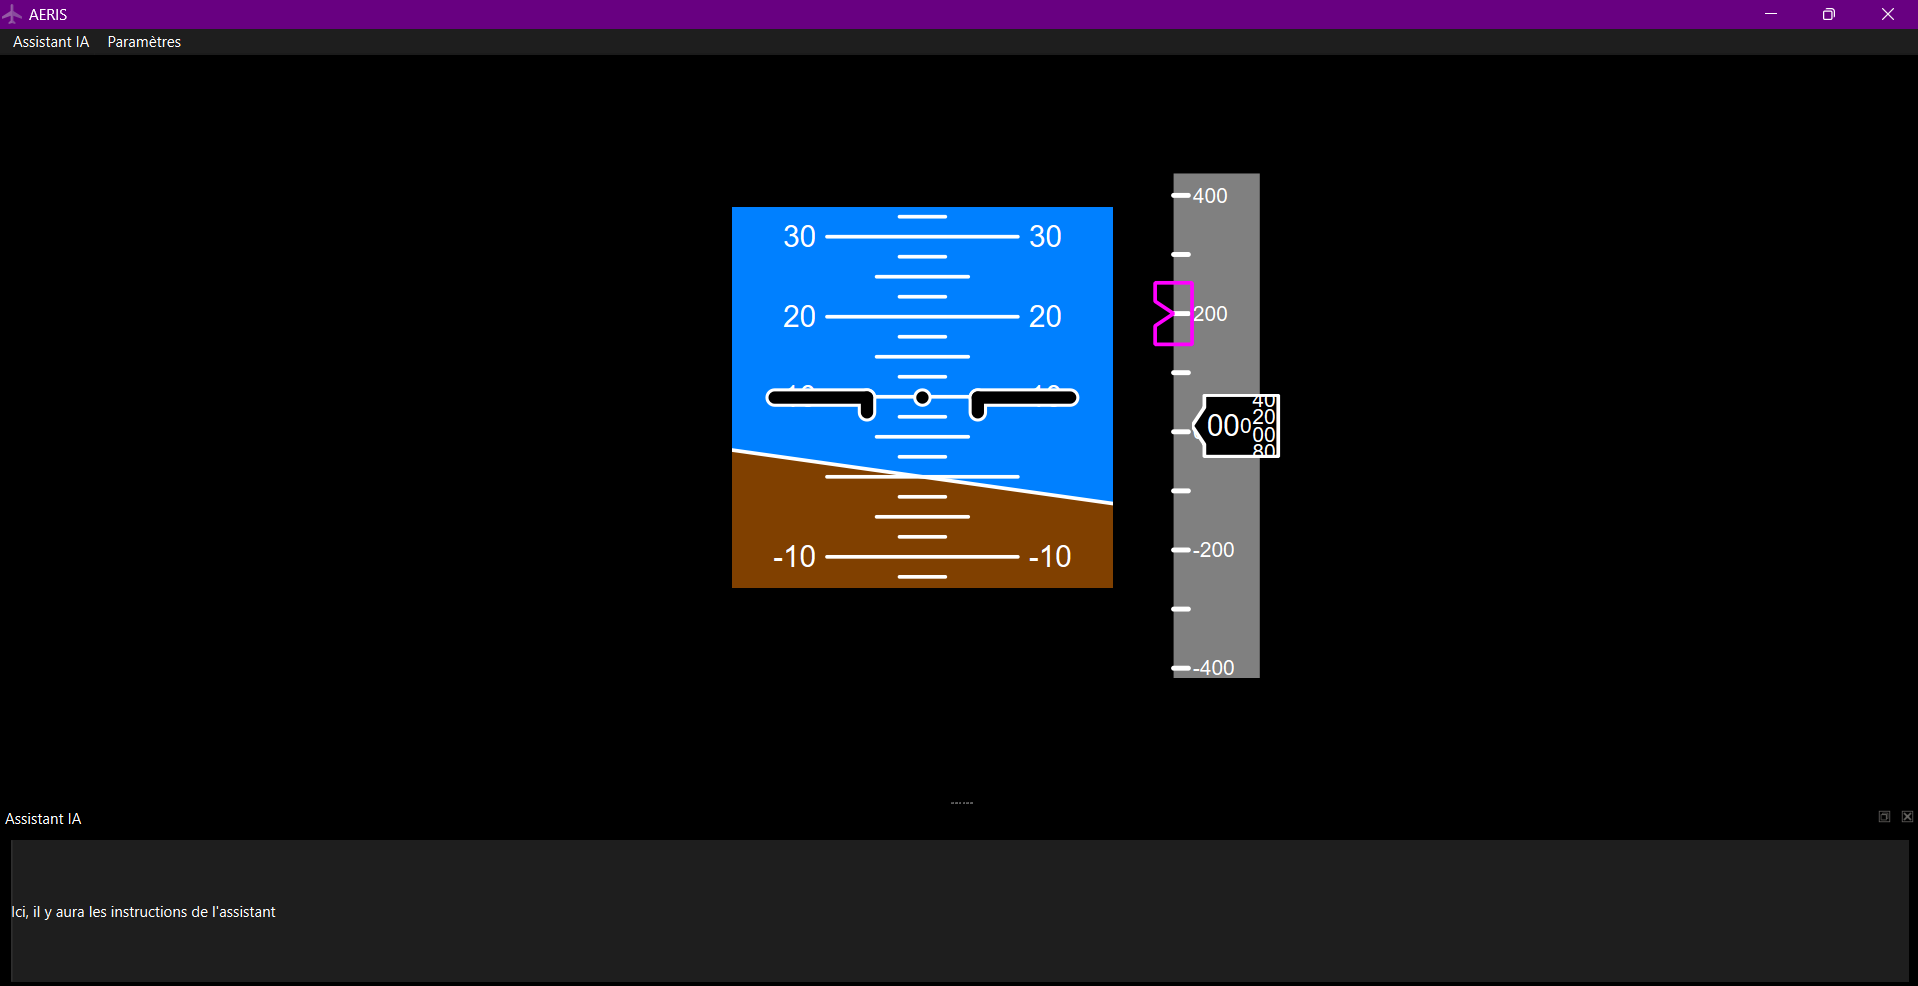
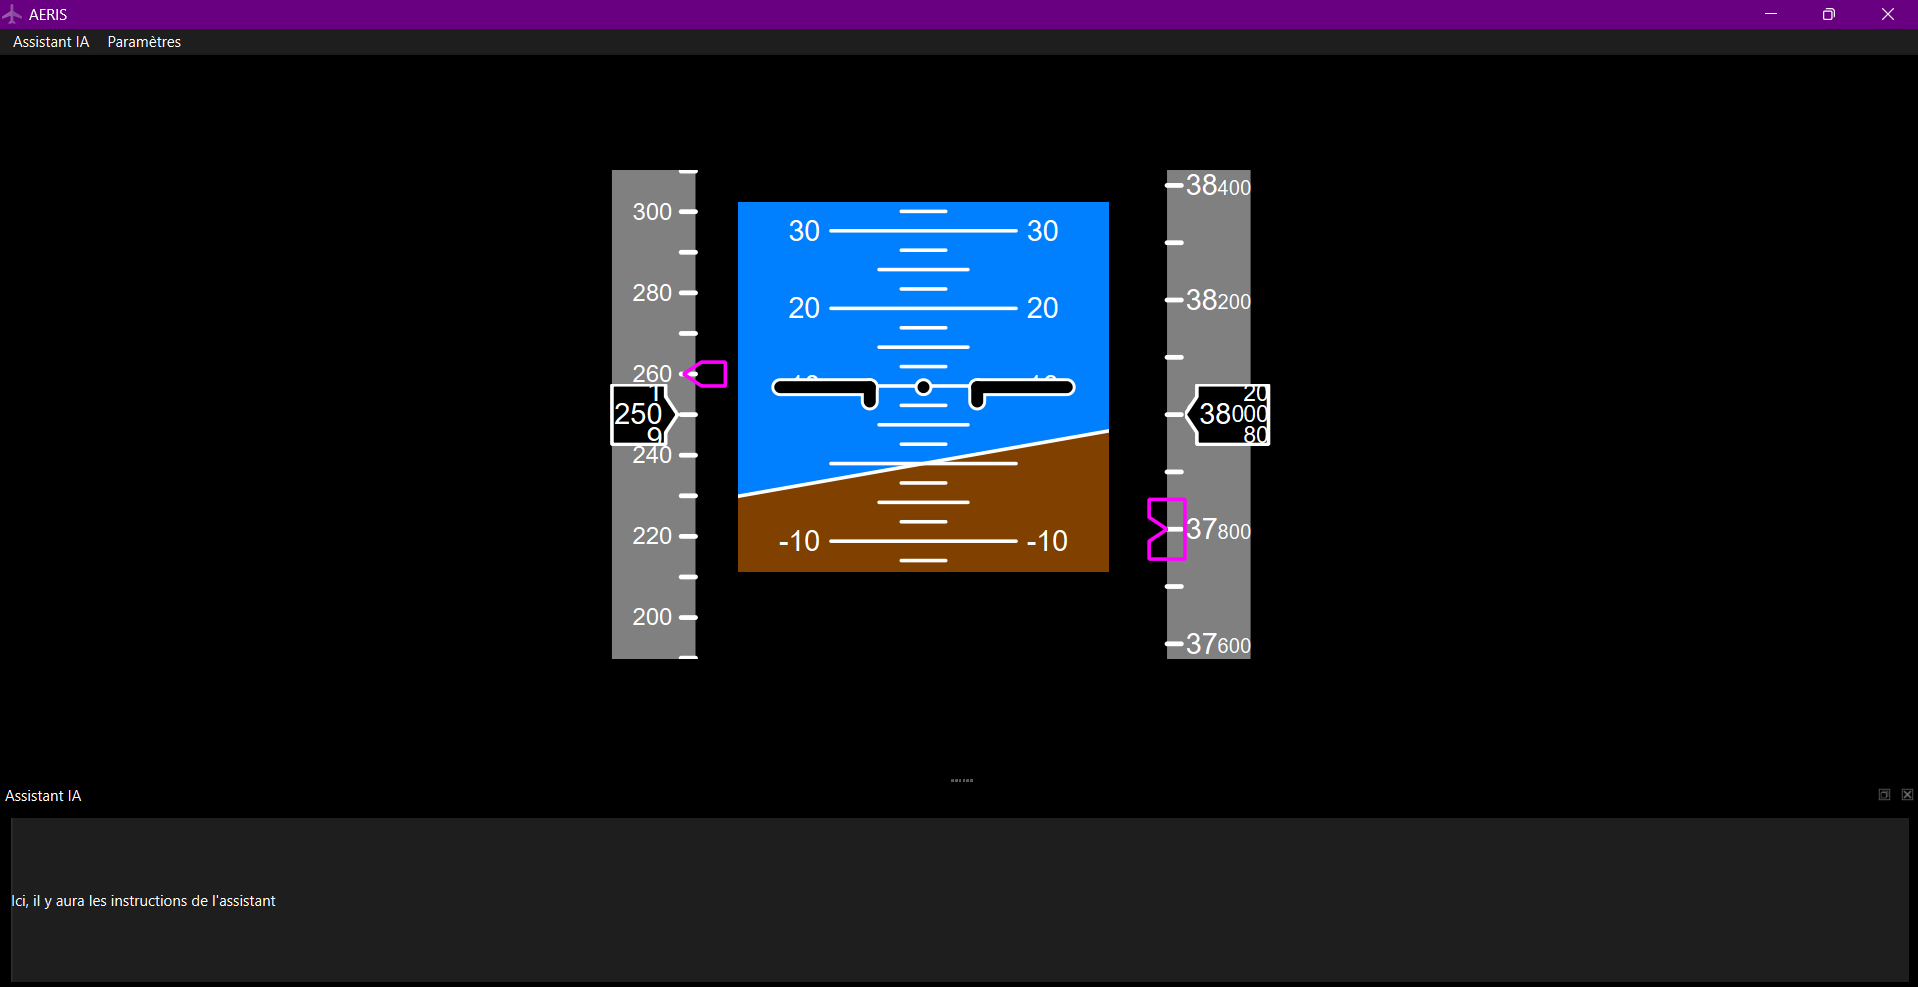
Ajout de l'anémomètre et correction de l'affichage de l'altimètre

Changed region(s): [[0.3076, 0.1521, 0.6767, 0.6998], [0.0, 0.7911, 1.0, 0.8519], [0.0, 0.9128, 0.1538, 0.9432]]

diff --git a/software/ui/anemometer/indicator.py b/software/ui/anemometer/indicator.py
@@ -1,0 +1,83 @@
+from PyQt6.QtWidgets import QGraphicsItemGroup, QGraphicsLineItem, QGraphicsTextItem, QGraphicsRectItem, QGraphicsItem, QGraphicsPolygonItem
+from PyQt6.QtGui import QColor, QPen, QFont, QBrush, QPainterPath, QPolygonF
+from PyQt6.QtCore import Qt, QRectF, QPointF
+import math
+
+class SpeedIndicator(QGraphicsItemGroup):
+    def __init__(self, parent=None, width=60, height=50):
+        super().__init__(parent)
+        self.width = width
+        self.height = height
+
+        self.knotsPerGraduation = 1
+        self.pixelsPerGraduation = 20
+        self.pxPerKnot = self.pixelsPerGraduation / self.knotsPerGraduation
+
+        self.setFlag(QGraphicsItem.GraphicsItemFlag.ItemClipsChildrenToShape, True)
+
+        triangle = QGraphicsPolygonItem()
+        self.addToGroup(triangle)
+
+        polygon = QPolygonF([
+            QPointF(10, -25),
+            QPointF(10, -15),
+            QPointF(20, 0),
+            QPointF(10, 15),
+            QPointF(10, 25),
+            QPointF(-35, 25),
+            QPointF(-35, -25),
+        ])
+
+        triangle.setPolygon(polygon)
+        triangle.setBrush(QBrush(Qt.GlobalColor.black))
+        triangle.setPen(QPen(Qt.GlobalColor.white, 3))
+
+        self.font = QFont("Arial", 18)
+
+        self.digits = []
+        for i in range(-1, 4):
+            smallText = QGraphicsTextItem("", self)
+            smallText.setDefaultTextColor(Qt.GlobalColor.white)
+            smallText.setFont(self.font)
+            variableText = QGraphicsTextItem("", self)
+            variableText.setDefaultTextColor(Qt.GlobalColor.white)
+            variableText.setFont(self.font)
+            self.digits.append({
+                "index": i,
+                "smallText": smallText,
+                "variableText": variableText
+            })
+
+    def updatePositions(self, speed):
+        step = self.knotsPerGraduation * 2
+        baseSpeed = (speed // step) * step
+
+        mainDigit = self.digits[0]
+        smallText = mainDigit["smallText"]
+
+        tensDigit = speed // 10
+        if speed<0:
+            smallText.setPlainText(f"{tensDigit:03d}")
+            smallText.setPos(-45, -smallText.boundingRect().height() / 2)
+        else:
+            smallText.setPlainText(f"{tensDigit:02d}")
+            smallText.setPos(-37, -smallText.boundingRect().height() / 2)
+        smallText.setVisible(True)
+    
+        for numbers in self.digits:
+            speedValue = baseSpeed + numbers["index"] * self.knotsPerGraduation
+            y_local = (speed - speedValue) * self.pxPerKnot
+
+            variableText = numbers["variableText"]
+            unitsDigit = (speedValue % 10)
+            variableText.setPlainText(str(unitsDigit))
+            variableText.setPos(-10, y_local - variableText.boundingRect().height() / 2)
+            variableText.setVisible(True)
+
+    def boundingRect(self):
+        return QRectF(-40, -26, 80, 52)
+
+    def shape(self):
+        path = QPainterPath()
+        path.addRect(self.boundingRect())
+        return path

diff --git a/software/ui/anemometer/graduations.py b/software/ui/anemometer/graduations.py
@@ -1,0 +1,60 @@
+from PyQt6.QtWidgets import QGraphicsItemGroup, QGraphicsLineItem, QGraphicsTextItem
+from PyQt6.QtGui import QColor, QPen, QFont
+from PyQt6.QtCore import Qt
+import math
+
+
+class SpeedGraduations(QGraphicsItemGroup):
+    def __init__(self, parent=None, width=600):
+        super().__init__(parent)
+
+        self.knotsPerGraduation = 10
+        self.pixelsPerGraduation = 34
+        self.pxPerKnot = self.pixelsPerGraduation / self.knotsPerGraduation
+
+        self.width = width
+        self.graduationsData = []
+
+        pen = QPen(QColor("#FFFFFF"), 4)
+        pen.setCapStyle(Qt.PenCapStyle.RoundCap)
+
+        font = QFont("Arial", 15)
+
+        for i in range(-5, 8):
+            line = QGraphicsLineItem(width / 2, 0, width / 2 - 12, 0, self)
+            line.setPen(pen)
+
+            text = None
+
+            if i % 2 == 0:
+                text = QGraphicsTextItem("", self)
+                text.setDefaultTextColor(Qt.GlobalColor.white)
+                text.setFont(font)
+
+            self.graduationsData.append({
+                "index": i,
+                "line": line,
+                "text": text
+            })
+
+    def updatePositions(self, speed):
+        step = self.knotsPerGraduation * 2
+
+        baseSpeed = (speed // step) * step
+
+        for grad in self.graduationsData:
+            speedValue = baseSpeed + grad["index"] * self.knotsPerGraduation
+
+            y_local = (speed - speedValue) * self.pxPerKnot
+
+            grad["line"].setPos(0, y_local)
+
+            text = grad["text"]
+
+            if text is not None:
+                text.setPlainText(str(speedValue))
+                text.setPos(
+                    self.width / 3 - 45,
+                    y_local - text.boundingRect().height() / 2
+                )
+                text.setVisible(True)

diff --git a/software/ui/anemometer/instrument.py b/software/ui/anemometer/instrument.py
@@ -2,11 +2,11 @@ from PyQt6.QtWidgets import QGraphicsItemGroup, QGraphicsRectItem, QGraphicsItem
 from PyQt6.QtGui import QBrush, QColor, QPen, QPainterPath
 from PyQt6.QtCore import Qt, QRectF
 
-from ui.altimeter.graduations import AltitudeGraduations
-from ui.altimeter.indicator import AltitudeIndicator
-from ui.altimeter.ai import AltitudeAi
+from ui.anemometer.graduations import SpeedGraduations
+from ui.anemometer.indicator import SpeedIndicator
+from ui.anemometer.ai import SpeedAi
 
-class AltimeterInstrument(QGraphicsItemGroup):
+class AnemometerInstrument(QGraphicsItemGroup):
     def __init__(self):
         super().__init__()
         self.width = 70
@@ -25,19 +25,19 @@ class AltimeterInstrument(QGraphicsItemGroup):
 
         self.setTransformOriginPoint(0, 0)
 
-        self.graduations = AltitudeGraduations(parent=self, width=self.width)
+        self.graduations = SpeedGraduations(parent=self, width=self.width)
         self.addToGroup(self.graduations)
 
-        self.ai = AltitudeAi(parent=self)
+        self.ai = SpeedAi(parent=self)
         self.addToGroup(self.ai)
 
-        self.indicator = AltitudeIndicator(parent=self)
+        self.indicator = SpeedIndicator(parent=self)
         self.addToGroup(self.indicator)
 
-    def updatePositions(self, altitude):
-        self.graduations.updatePositions(altitude)
-        self.indicator.updatePositions(altitude)
-        self.ai.updatePositions(altitude,37800)
+    def updatePositions(self, speed):
+        self.graduations.updatePositions(speed)
+        self.indicator.updatePositions(speed)
+        self.ai.updatePositions(speed,260)
 
     def boundingRect(self,width=70,height=410):
         return QRectF(-width, -height / 2, width*2, height)

diff --git a/software/ui/pfd.py b/software/ui/pfd.py
@@ -28,23 +28,28 @@ class PrimaryFlightDisplay(QWidget):
 
         #self.setupMockPFD(size) #Provisoire
         self.setupInstruments()
-        self.updateFromData()
+        #self.updateFromData()
 
-        #self.artificialHorizon.updatePositions(10, 10)
-        #self.altimeter.updatePositions(38566)
+        self.artificialHorizon.updatePositions(10, 10)
+        self.altimeter.updatePositions(38000)
+        self.anemometer.updatePositions(250)
 
     def setupInstruments(self):
         from ui.artificialHorizon.instrument import ArtificialHorizonInstrument
         from ui.altimeter.instrument import AltimeterInstrument
+        from ui.anemometer.instrument import AnemometerInstrument
         
         self.artificialHorizon = ArtificialHorizonInstrument()
         self.altimeter = AltimeterInstrument()
+        self.anemometer = AnemometerInstrument()
         
         self.scene.addItem(self.artificialHorizon)
         self.scene.addItem(self.altimeter)
+        self.scene.addItem(self.anemometer)
         
         self.artificialHorizon.setPos(271, 277)
         self.altimeter.setPos(510, 300)
+        self.anemometer.setPos(45, 300)
 
     def showEvent(self, event):
         super().showEvent(event)
@@ -87,6 +92,7 @@ class PrimaryFlightDisplay(QWidget):
 
         self.artificialHorizon.updatePositions(pitch, roll)
         self.altimeter.updatePositions(pitch)
+        self.anemometer.updatePositions(roll)
 
     def setupMockPFD(self, size): #Provisoire
         pixmap = QPixmap("assets/maquette.png")

diff --git a/software/ui/anemometer/ai.py b/software/ui/anemometer/ai.py
@@ -2,7 +2,7 @@ from PyQt6.QtWidgets import QGraphicsItemGroup, QGraphicsPolygonItem
 from PyQt6.QtGui import QColor, QPen, QPolygonF
 from PyQt6.QtCore import Qt, QPointF
 
-class AltitudeAi(QGraphicsItemGroup):
+class SpeedAi(QGraphicsItemGroup):
     def __init__(self, parent=None):
         super().__init__(parent)
         size=600
@@ -11,24 +11,22 @@ class AltitudeAi(QGraphicsItemGroup):
         self.addToGroup(indicator)
 
         polygon = QPolygonF([
-            QPointF(-50, -25),
-            QPointF(-20, -25),
-            QPointF(-20, 25),
-            QPointF(-50, 25),
-            QPointF(-50, 10),
-            QPointF(-35, 0),
-            QPointF(-50, -10),
+            QPointF(60, -10),
+            QPointF(60, 10),
+            QPointF(40, 10),
+            QPointF(25, 0),
+            QPointF(40, -10),
         ])
 
         indicator.setPolygon(polygon)
         indicator.setPen(QPen(QColor("#FF00FF"), 3))
     
-    def updatePositions(self, altitude, aimedAltitude):
-        metersPerGraduation = 100
-        pixelsPerGraduation = 48
-        pxPerMeter = pixelsPerGraduation / metersPerGraduation
+    def updatePositions(self, speed, aimedSpeed):
+        knotsPerGraduation = 10
+        pixelsPerGraduation = 34
+        pxPerKnot = pixelsPerGraduation / knotsPerGraduation
 
-        offset=(altitude-aimedAltitude)*pxPerMeter
+        offset=(speed-aimedSpeed)*pxPerKnot
         if offset>205 :
             offset=205
         elif offset<-205 :

diff --git a/software/ui/altimeter/indicator.py b/software/ui/altimeter/indicator.py
@@ -11,7 +11,7 @@ class AltitudeIndicator(QGraphicsItemGroup):
         self.height = height
 
         self.metersPerGraduation = 20
-        self.pixelsPerGraduation = 14
+        self.pixelsPerGraduation = 18
         self.pxPerMeter = self.pixelsPerGraduation / self.metersPerGraduation
 
         self.setFlag(QGraphicsItem.GraphicsItemFlag.ItemClipsChildrenToShape, True)
@@ -34,7 +34,7 @@ class AltitudeIndicator(QGraphicsItemGroup):
         triangle.setPen(QPen(Qt.GlobalColor.white, 3))
 
         self.bigFont = QFont("Arial", 18)
-        self.smallFont = QFont("Arial", 13)
+        self.smallFont = QFont("Arial", 14)
 
         self.digits = []
         for i in range(-1, 4):
